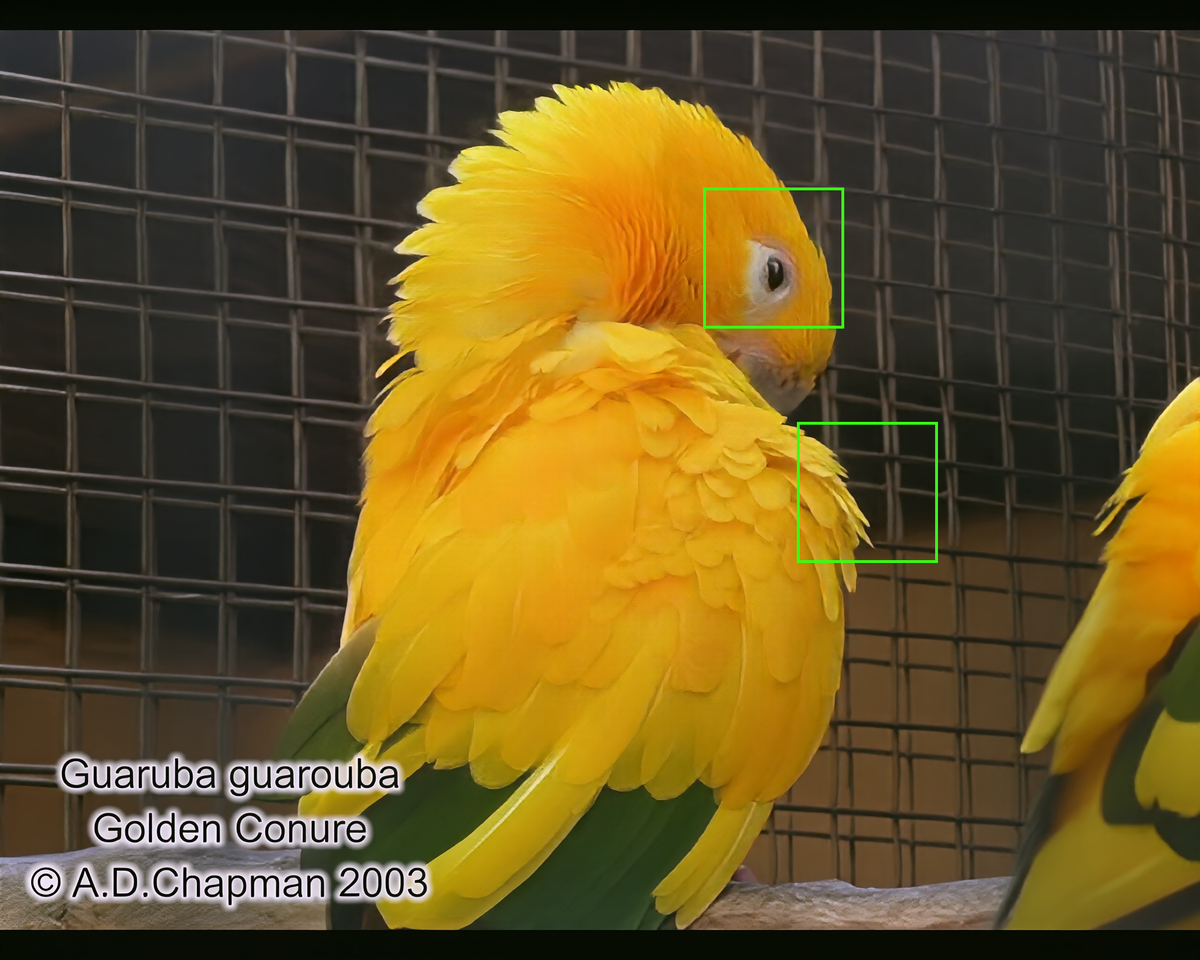
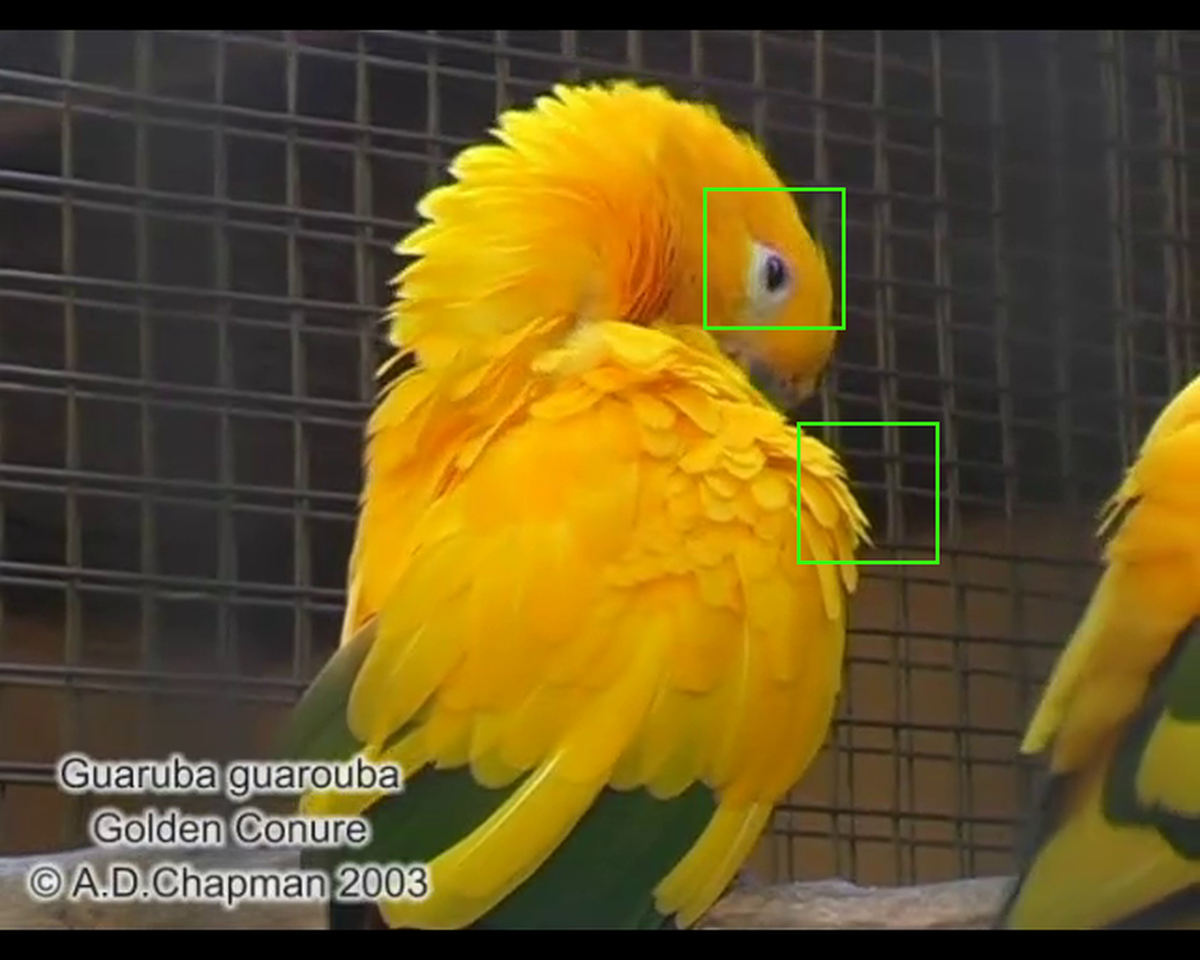
Update make_crops script to adjust crop coordinates for low-resolution frames and enhance overview functionality

diff --git a/scripts/report/make_crops.py b/scripts/report/make_crops.py
@@ -122,14 +122,14 @@ def extract(frame: Image.Image, crop: Crop, scale: int, is_lr: bool) -> Image.Im
     return frame.crop(box)
 
 
-def overview(frame: Image.Image, crops: list[Crop], width: int) -> Image.Image:
-    """Rysuje pełną klatkę z zaznaczonymi obszarami wycinków."""
+def overview(frame: Image.Image, crops: list[Crop], width: int, scale: int) -> Image.Image:
+    """Rysuje pełną klatkę LR z zaznaczonymi obszarami wycinków (współrzędne HR podzielone przez skalę)."""
     canvas = frame.copy()
     draw = ImageDraw.Draw(canvas)
     line = max(2, canvas.width // 400)
     for crop in crops:
         draw.rectangle(
-            [crop.x, crop.y, crop.x + crop.w, crop.y + crop.h],
+            [crop.x // scale, crop.y // scale, (crop.x + crop.w) // scale, (crop.y + crop.h) // scale],
             outline=ACCENT,
             width=line,
         )
@@ -212,8 +212,14 @@ def main(argv: list[str] | None = None) -> int:
             patch.save(target)
             written.append(target.name)
 
-    ref_label = opts.overview_from or next(iter(l for l in labels if l not in lr_labels))
-    overview_img = overview(frames[ref_label], crops, opts.overview_width)
+    if opts.overview_from:
+        ref_label = opts.overview_from
+    elif lr_labels:
+        ref_label = sorted(lr_labels)[0]
+    else:
+        ref_label = next(iter(labels))
+    overview_scale = opts.scale if ref_label in lr_labels else 1
+    overview_img = overview(frames[ref_label], crops, opts.overview_width, overview_scale)
     overview_img.save(opts.out / "klatka_pelna.png")
     written.append("klatka_pelna.png")
 
